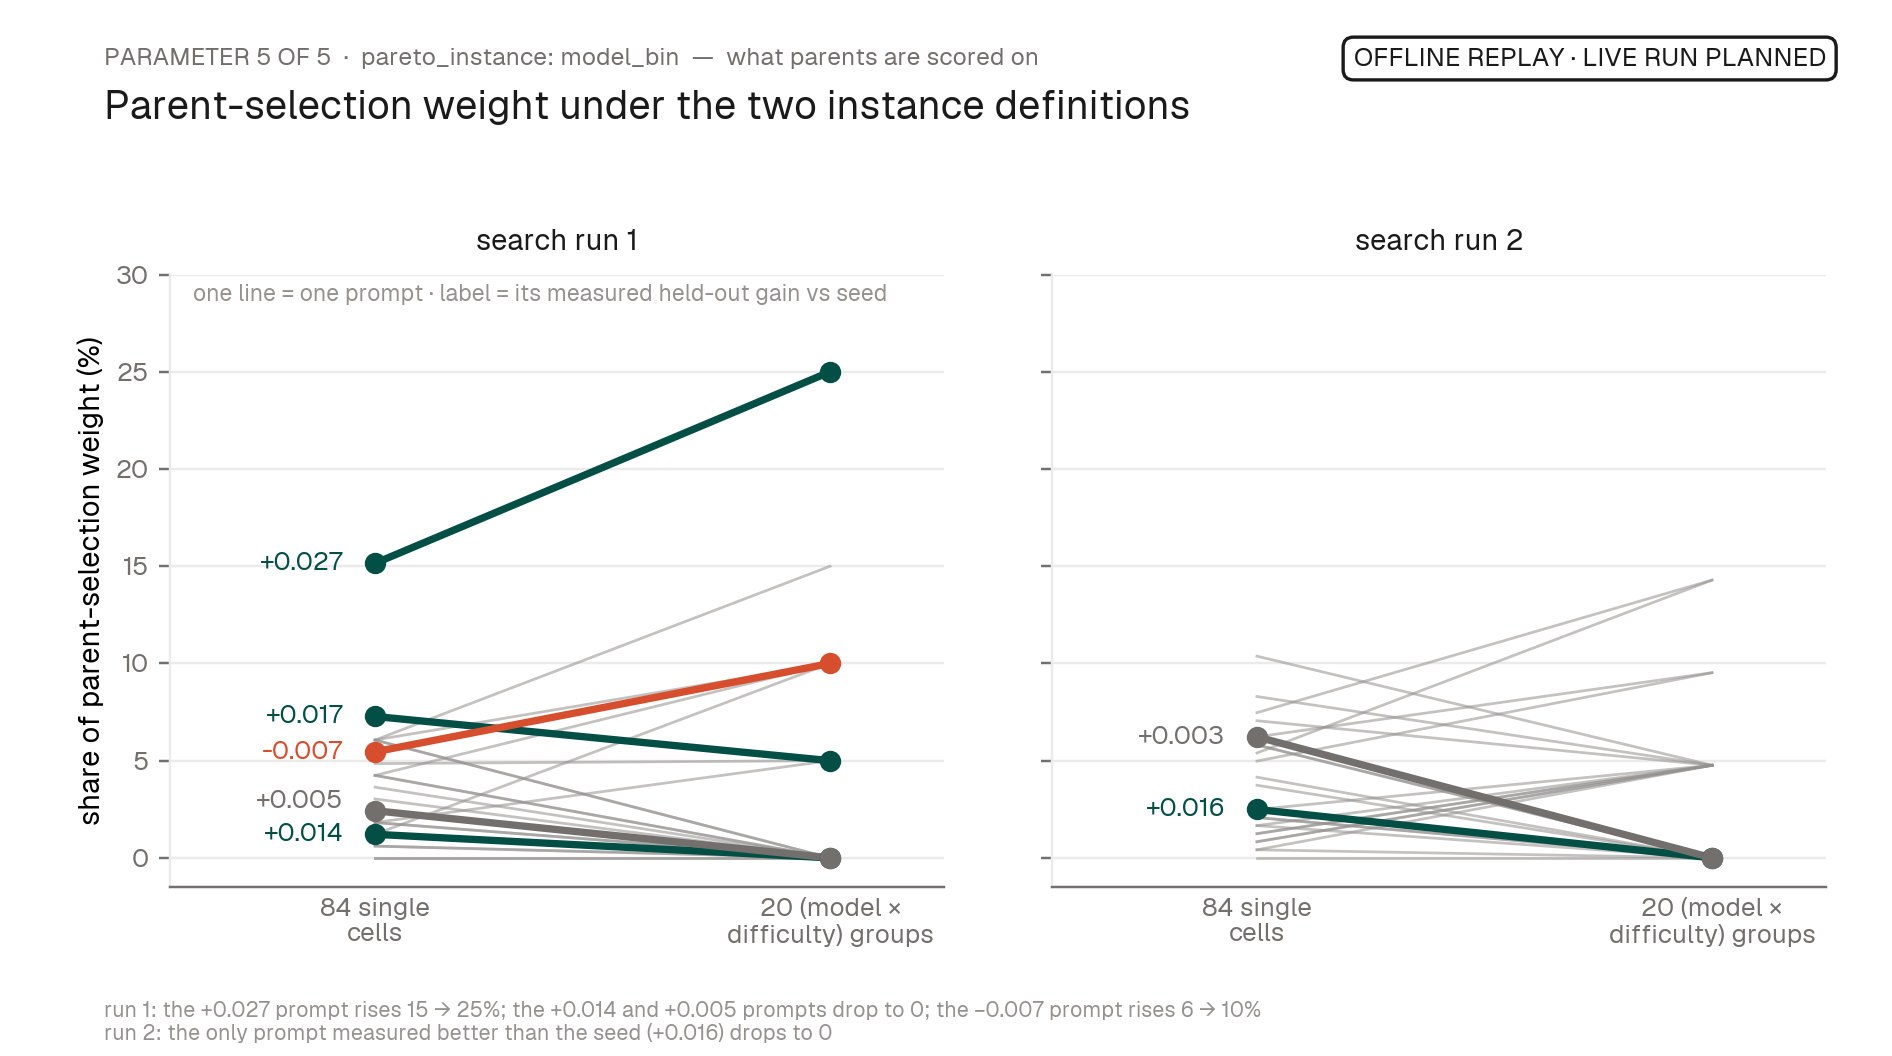
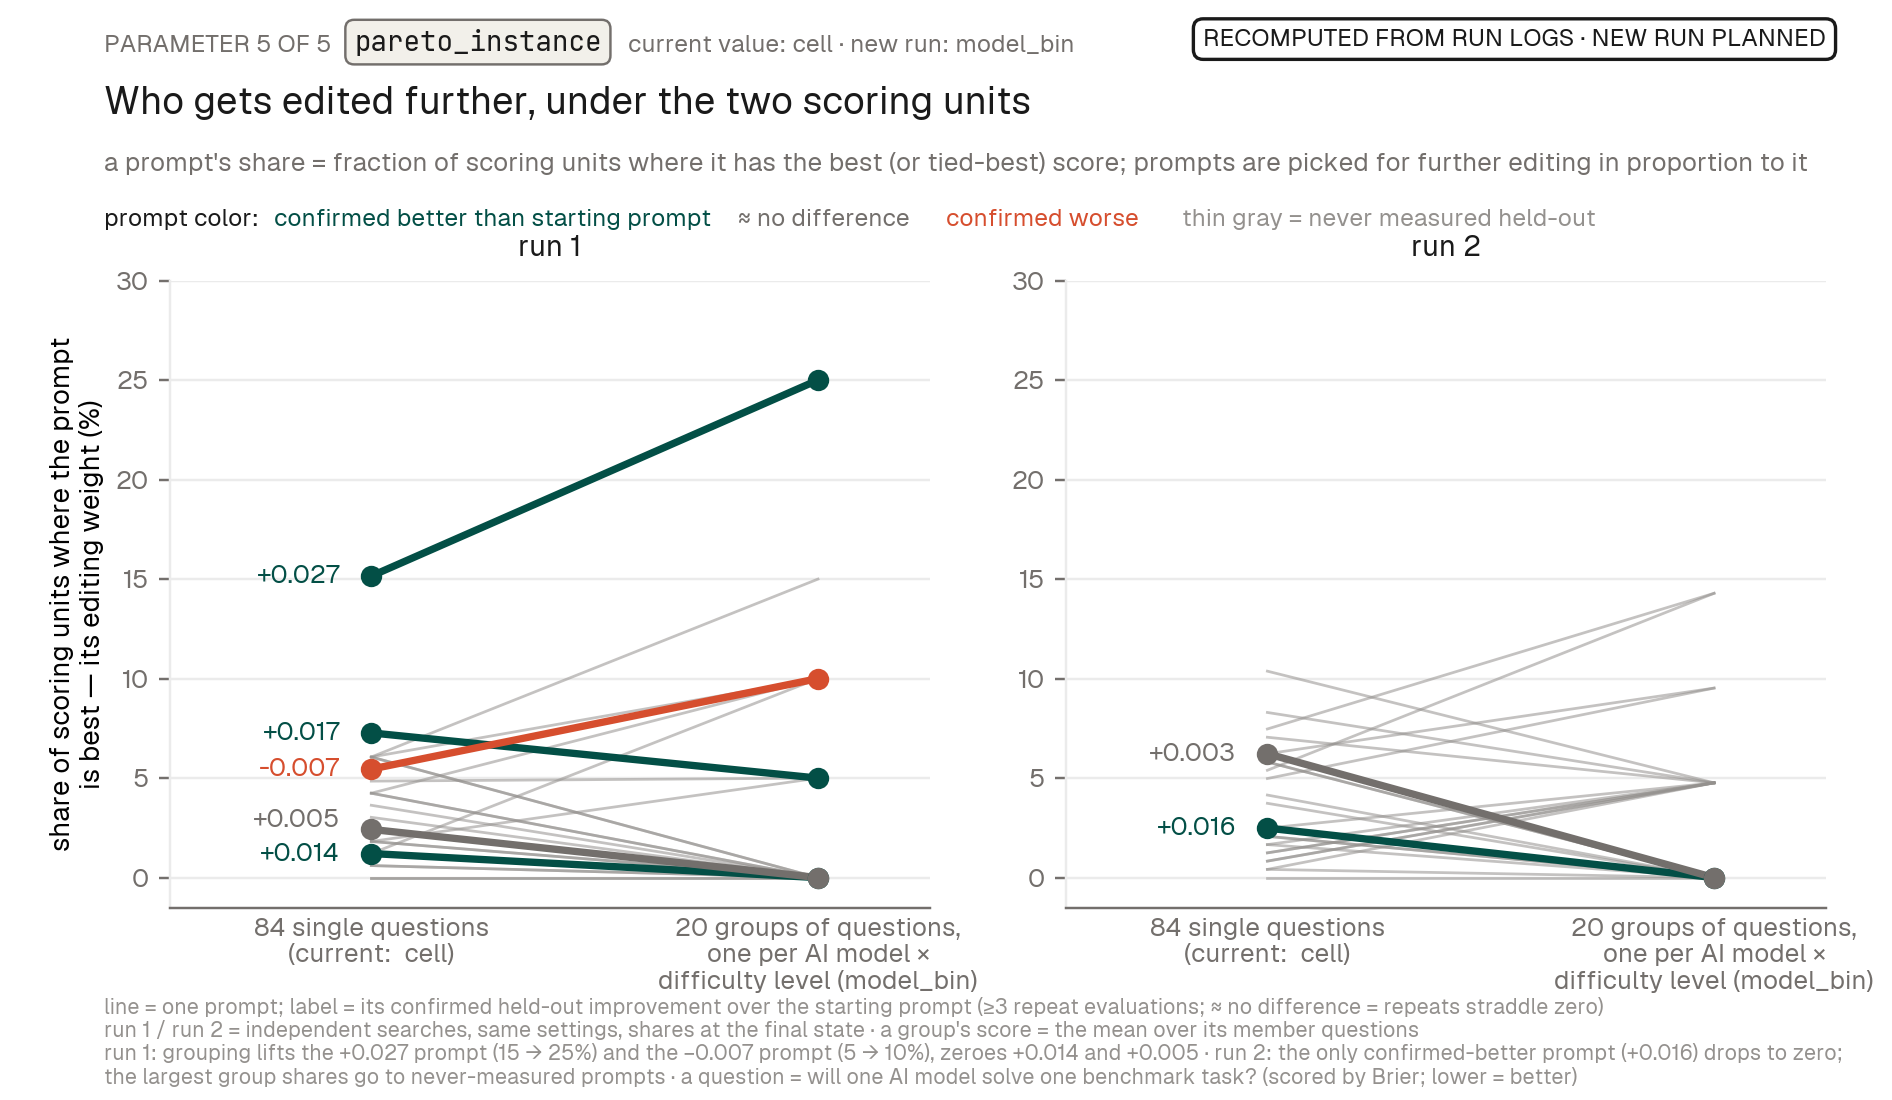
Sweep figures: cold-reader-proofed, parameter names highlighted
Ten zero-context reviewer passes (five before, five after) drove the
rewrite: every term is now defined in the labels themselves (question =
one model x task forecast, starting prompt, parent prompt, win, tie
handling, denominators), the exact code parameter name sits in a
monospace chip in each header, whiskers added from per-repeat paired
gains, fig15 is a true two-axis scatter, and fig16 maps each config
value to its column with a color legend. Final verdicts: all five
self-sufficient for a cold reader.

diff --git a/intra_benchmark_calibration/experiments/III_gepa_optimization/summary/make_param_sweep_figs.py b/intra_benchmark_calibration/experiments/III_gepa_optimization/summary/make_param_sweep_figs.py
@@ -1,9 +1,14 @@
 #!/usr/bin/env python3
 """fig12-16: one figure per search parameter considered for the next runs.
 
-Each figure names the exact parameter, states offline/online in the corner
-chip, and reads from sweep_report_data.json (produced by gepa repo
-scripts/sweep_report_data.py — a replay of the logged runs, no simulation).
+Wording is calibrated against five zero-context reviewer passes (agents shown
+only the image): every term is defined on-figure in the labels themselves —
+question, starting prompt, parent prompt, win, tie handling, denominators —
+and each figure states in the corner chip whether it is recomputed from the
+logs of completed runs or comes from completed runs directly.
+
+Data: sweep_report_data.json (gepa repo scripts/sweep_report_data.py — a
+replay of recorded runs, no simulation).
 """
 import json
 from pathlib import Path
@@ -20,13 +25,26 @@ plt.rcParams.update({"font.family": "Geist", "figure.facecolor": "white",
 D = json.load(open(Path(__file__).parent / "sweep_report_data.json"))
 R1, R2 = "pilot_baseline", "pilot_baseline_clean"
 
+QUESTION = "a question = will one AI model solve one benchmark task? (scored by Brier; lower = better)"
 
-def header(fig, n, code, title, chip):
-    fig.text(0.055, 0.955, f"PARAMETER {n} OF 5  ·  {code}",
-             fontsize=8, color=MUTED, ha="left", va="top")
-    fig.text(0.055, 0.915, title, fontsize=13, color=INK, ha="left", va="top",
+
+def header(fig, n, code, title, frame, chip, gloss=""):
+    # the exact code parameter name, highlighted in a monospace chip
+    t1 = fig.text(0.055, 0.968, f"PARAMETER {n} OF 5", fontsize=8, color=MUTED,
+                  ha="left", va="top")
+    renderer = fig.canvas.get_renderer()
+    x = t1.get_window_extent(renderer).x1 / (fig.get_figwidth() * fig.dpi) + 0.012
+    t2 = fig.text(x, 0.974, code, fontsize=9, color=INK, ha="left", va="top",
+                  fontweight="bold",
+                  fontfamily=["JetBrains Mono", "Menlo", "monospace"],
+                  bbox=dict(boxstyle="round,pad=0.32", fc="#f2f0ea", ec=MUTED, lw=0.8))
+    if gloss:
+        x2 = t2.get_window_extent(renderer).x1 / (fig.get_figwidth() * fig.dpi) + 0.014
+        fig.text(x2, 0.968, gloss, fontsize=8, color=MUTED, ha="left", va="top")
+    fig.text(0.055, 0.922, title, fontsize=12.5, color=INK, ha="left", va="top",
              fontweight="bold")
-    fig.text(0.965, 0.955, chip, fontsize=8.5, color=INK, ha="right",
+    fig.text(0.055, 0.862, frame, fontsize=8.5, color=MUTED, ha="left", va="top")
+    fig.text(0.965, 0.974, chip, fontsize=8, color=INK, ha="right",
              va="top", fontweight="bold",
              bbox=dict(boxstyle="round,pad=0.4", fc="white", ec=INK, lw=1.1))
 
@@ -44,139 +62,179 @@ def clean_axes(ax):
 
 # ---------------------------------------------------------------- fig12
 def fig12():
-    fig, ax = plt.subplots(figsize=(8.6, 4.0), dpi=220)
-    fig.subplots_adjust(top=0.76, bottom=0.20, left=0.10, right=0.965)
-    header(fig, 1, "n_train_tasks_per_iter  —  number of cells in the accept/reject test",
-           "Best verified held-out gain, by size of the accept/reject test",
-           "COMPLETED LIVE RUNS")
-    runs = D["gate_size"]["runs"]
-    xs = range(3)
-    for x, r in zip(xs, runs):
-        if r["best_gain"] is not None:
-            ax.bar(x, r["best_gain"], width=0.52, color=GREEN)
-            ax.text(x, r["best_gain"] + 0.0008, f"+{r['best_gain']:.3f}",
-                    ha="center", fontsize=11, color=INK, fontweight="bold")
-            ax.text(x, r["best_gain"] + 0.0032, r["passes"],
+    fig, ax = plt.subplots(figsize=(8.6, 4.4), dpi=220)
+    fig.subplots_adjust(top=0.775, bottom=0.21, left=0.115, right=0.965)
+    header(fig, 1, "n_train_tasks_per_iter",
+           "Best confirmed improvement, by size of the entry test",
+           "a proposed prompt joins the pool only if it beats its parent prompt "
+           "(the prompt it was edited from) on this test",
+           "FROM COMPLETED RUNS",
+           gloss="value 1 → a 20-question test · value 5 → 100")
+    G = D["gate_size"]
+    for x, r in enumerate(G["runs"]):
+        b = r["best"]
+        if b is not None:
+            ax.bar(x, b["mean"], width=0.5, color=GREEN,
+                   yerr=[[b["mean"] - b["min"]], [b["max"] - b["mean"]]],
+                   capsize=4, error_kw={"lw": 1.1, "ecolor": INK})
+            ax.text(x, b["mean"] - 0.0018, f"+{b['mean']:.3f}",
+                    ha="center", va="top", fontsize=11, color="white",
+                    fontweight="bold")
+            ax.text(x, b["max"] + 0.0012, f"{b['n_repeats']} repeat evaluations",
                     ha="center", fontsize=7.5, color=SOFT)
         else:
-            ax.bar(x, 0.0004, width=0.52, color=HAIR, edgecolor=MUTED,
+            ax.bar(x, 0.0004, width=0.5, color=HAIR, edgecolor=MUTED,
                    lw=1.0, ls="--")
-            ax.text(x, 0.0022, "no prompt beat the seed;\nnothing to verify held-out",
-                    ha="center", fontsize=9, color=MUTED)
-    ax.set_xticks(list(xs), ["20-cell test\nsearch run 1", "20-cell test\nsearch run 2",
-                             "100-cell test\none run"],
-                  fontsize=9.5, color=INK)
-    ax.set_ylim(0, 0.032)
-    ax.set_ylabel("best verified held-out gain vs seed\n(Brier, higher = better)",
+            ax.text(x, 0.0035, "none of its 40 proposals beat the starting\nprompt even "
+                    "on the search questions —\nnothing to evaluate held-out",
+                    ha="center", fontsize=8.5, color=MUTED)
+    ax.set_xticks([0, 1, 2], ["20-question test\nrun 1", "20-question test\nrun 2",
+                              "100-question test\nrun 3"], fontsize=9.5, color=INK)
+    ax.set_ylim(0, 0.034)
+    ax.set_ylabel("improvement in held-out Brier score\nover the starting prompt",
                   fontsize=9)
     clean_axes(ax); ax.tick_params(axis="x", length=0)
-    footer(fig, "gain = paired mean Brier improvement vs the seed on the 230 held-out pairs, "
-                "≥3 paired passes")
+    footer(fig, "improvement = starting prompt's Brier − this prompt's Brier, on the same 230 "
+                "held-out questions never used during the search · bar = mean, whisker = "
+                "min–max\nover repeat evaluations · confirmed = better in every repeat · "
+                "starting prompt's held-out Brier ≈ 0.131 · every run proposes 40 prompts\n"
+                + QUESTION + " · an entry test = (value × 5 difficulty bins) tasks × 4 AI models")
     fig.savefig("fig12_sweep_gate_size.png")
     plt.close(fig)
 
 
 # ---------------------------------------------------------------- fig13/14
+FRAME_1314 = ("today's entry rule: a proposed prompt joins the pool if its total score on 20 "
+              "questions beats its parent prompt's\n(parent = the prompt it was edited from) · "
+              "a win = a better score than the parent on one question")
+
+
 def _accept_lines(ax, table, pooled, reject_label):
     ks = list(range(0, 21))
     g = [100 * table[str(k)]["good_kept"] / pooled["n_good"] for k in ks]
     b = [100 * table[str(k)]["bad_kept"] / pooled["n_bad"] for k in ks]
     a = [100 * table[str(k)]["rejects_admitted"] / pooled["n_reject"] for k in ks]
-    ax.plot(ks, g, color=GREEN, lw=2.2,
-            label=f"accepted — later measured better than parent  (n={pooled['n_good']})")
-    ax.plot(ks, b, color=VERM, lw=2.2,
-            label=f"accepted — later measured worse than parent  (n={pooled['n_bad']})")
-    ax.plot(ks, a, color=INK, lw=1.6, ls=":", label=reject_label)
+    ax.plot(ks, g, color=GREEN, lw=2, marker="o", ms=3.5,
+            label=f"accepted then — later confirmed better than its parent  (n={pooled['n_good']})")
+    ax.plot(ks, b, color=VERM, lw=2, marker="o", ms=3.5,
+            label=f"accepted then — later found worse than its parent  (n={pooled['n_bad']})")
+    ax.plot(ks, a, color=INK, lw=1.4, ls=":", marker="o", ms=3, label=reject_label)
     ax.legend(loc="upper right", frameon=False, fontsize=8.5,
-              handlelength=2.4, labelcolor=INK, borderaxespad=0.2)
-    ax.set_xlim(0, 20); ax.set_ylim(-4, 108)
+              handlelength=2.2, labelcolor=INK, borderaxespad=0.2)
+    ax.set_xlim(-0.3, 20.3); ax.set_ylim(-4, 108)
     ax.set_xticks(range(0, 21, 4))
-    ax.set_xlabel("required cell wins  k  (of the 20 test cells)", fontsize=9.5)
-    ax.set_ylabel("proposals accepted by this rule (%)", fontsize=9.5)
+    ax.set_xlabel("required question wins,  k  (of the 20 entry-test questions)", fontsize=9.5)
+    ax.set_ylabel("share of each group this rule\nwould accept (%)", fontsize=9.5)
 
 
 def fig13():
-    fig, ax = plt.subplots(figsize=(8.6, 4.3), dpi=220)
-    fig.subplots_adjust(top=0.76, bottom=0.145, left=0.09, right=0.965)
-    header(fig, 2, "acceptance_criterion: min_task_wins  —  accept a new prompt "
-                   "if it wins ≥ k of the 20 test cells",
-           "What this rule, on its own, would have accepted at each k",
-           "OFFLINE REPLAY")
+    fig, ax = plt.subplots(figsize=(8.6, 4.8), dpi=220)
+    fig.subplots_adjust(top=0.75, bottom=0.185, left=0.105, right=0.965)
+    header(fig, 2, "acceptance_criterion: min_task_wins",
+           "Entry by “win at least k of the 20 questions” alone, replayed",
+           FRAME_1314, "RECOMPUTED FROM RUN LOGS", gloss="swept: k")
     A = D["acceptance"]
     _accept_lines(ax, A["wins_only"], A["pooled"],
-                  f"originally rejected  (n={A['pooled']['n_reject']})")
+                  f"rejected then  (n={A['pooled']['n_reject']})")
     clean_axes(ax)
-    footer(fig, "replay of the 77 recorded accept/reject decisions from the two completed "
-                "20-cell-test runs")
+    footer(fig, "replays the 77 recorded accept/reject decisions of the two completed searches "
+                "under the alternative rule · better/worse = the prompt's later score on all 84 "
+                "search questions\n(different tasks from the entry tests — no overlap) · "
+                "rejected prompts never got that evaluation, so the dotted line carries no "
+                "better/worse label\n" + QUESTION)
     fig.savefig("fig13_sweep_wins_only_gate.png")
     plt.close(fig)
 
 
 def fig14():
-    fig, ax = plt.subplots(figsize=(8.6, 4.3), dpi=220)
-    fig.subplots_adjust(top=0.76, bottom=0.145, left=0.09, right=0.965)
-    header(fig, 3, "aggregate_sum_and_min_task_wins  —  current rule AND wins ≥ k of 20",
-           "What the combined rule would have accepted at each k",
-           "OFFLINE REPLAY · LIVE RUN PLANNED")
+    fig, ax = plt.subplots(figsize=(8.6, 4.8), dpi=220)
+    fig.subplots_adjust(top=0.75, bottom=0.185, left=0.105, right=0.965)
+    header(fig, 3, "aggregate_sum_and_min_task_wins",
+           "Keeping today's rule AND requiring k question wins, replayed",
+           FRAME_1314, "RECOMPUTED FROM RUN LOGS · NEW RUN PLANNED",
+           gloss="swept: k · new run: k = 8")
     A = D["acceptance"]
     _accept_lines(ax, A["joint"], A["pooled"],
-                  "originally rejected — none accepted, at any k")
-    ax.axvline(8, color=GREEN, lw=1.2, ls="--", ymax=0.88)
-    ax.text(8, 103, "k = 8 · planned live run",
-            fontsize=8.5, color=GREEN, ha="center", fontweight="bold")
+                  f"rejected then (n={A['pooled']['n_reject']}) — none re-accepted; "
+                  "the AND only tightens")
+    ax.axvline(8, color=GREEN, lw=1.2, ls="--", ymax=0.80)
+    ax.text(7.7, 32, "k = 8, chosen for the new run:\nkeeps 15 of 18 better,\n"
+            "22 of 32 worse", fontsize=8.5, color=GREEN, ha="right",
+            fontweight="bold")
     clean_axes(ax)
-    footer(fig, "same replay as parameter 2 · the added condition can only reject more than "
-                "the current rule, never accept more")
+    footer(fig, "replays the 77 recorded accept/reject decisions of the two completed searches "
+                "· better/worse = the prompt's later score on all 84 search questions, not the "
+                "20 entry-test\nquestions ('task' in the parameter name = question) · k = 8 is "
+                "the largest k keeping ≥ 80% of the confirmed-better group · a changed early "
+                "acceptance\nchanges every later proposal, so the full-run effect needs the new "
+                "run · " + QUESTION)
     fig.savefig("fig14_sweep_joint_gate.png")
     plt.close(fig)
 
 
 # ---------------------------------------------------------------- fig15
 def fig15():
-    fig, axes = plt.subplots(2, 1, figsize=(8.6, 4.8), dpi=220, sharex=True)
-    fig.subplots_adjust(top=0.74, bottom=0.22, left=0.055, right=0.965, hspace=0.35)
-    header(fig, 4, "n_cells_won_needed_for_pareto_frontier  —  minimum cells won "
-                   "to be eligible as a parent",
-           "Cells won per prompt vs. its verified held-out gain",
-           "OFFLINE REPLAY")
-    fig.text(0.5, 0.795, "prompts with fewer than k cells won are ineligible as parents "
-             "(current setting: k = 1)", fontsize=8.5, color=MUTED, ha="center")
-    for ax, run, row_label in ((axes[0], R1, "search run 1"), (axes[1], R2, "search run 2")):
+    fig, ax = plt.subplots(figsize=(8.6, 4.9), dpi=220)
+    fig.subplots_adjust(top=0.775, bottom=0.225, left=0.105, right=0.965)
+    header(fig, 4, "n_cells_won_needed_for_pareto_frontier",
+           "Questions won vs confirmed improvement, per measured prompt",
+           "only prompts winning ≥ k questions may be edited further · "
+           "win = best, or tied for best, score on one question among the pool",
+           "RECOMPUTED FROM RUN LOGS",
+           gloss="current: 1 · 'cell' = question")
+    pts = {"o": [], "^": []}
+    for marker, run in (("o", R1), ("^", R2)):
         F = D["frontier"][run]
-        verified = {int(i): d for i, d in F["sealed_candidates"].items()}
-        others = [w for i, w in F["cells_won"].items() if int(i) not in verified and int(i) != 0]
-        ax.plot(others, [0] * len(others), marker="|", ms=13, mew=1.3, lw=0,
+        for i, d in F["sealed_candidates"].items():
+            pts[marker].append((d["cells_won"], d["sealed"]))
+        rug = [w for i, w in F["cells_won"].items()
+               if i not in F["sealed_candidates"] and int(i) != 0]
+        ax.plot(rug, [-0.0135] * len(rug), marker="|", ms=8, mew=1.2, lw=0,
                 color=SOFT, alpha=0.8)
-        for idx, d in sorted(verified.items(), key=lambda kv: kv[1]["cells_won"]):
-            gain = d["sealed"]
-            c = GREEN if gain >= 0.01 else (VERM if gain < 0 else MUTED)
-            ax.plot(d["cells_won"], 0, "o", ms=11, color=c, zorder=3)
-            ax.annotate(f"{gain:+.3f}", (d["cells_won"], 0), xytext=(0, 11),
-                        textcoords="offset points", ha="center", fontsize=9,
-                        color=c, fontweight="bold")
-        ax.set_ylim(-0.6, 1.1); ax.set_yticks([])
-        ax.set_xlim(0, 30)
-        ax.text(29.7, 0.75, row_label, fontsize=9, color=INK, ha="right")
-        ax.spines[["top", "right", "left"]].set_visible(False)
-        ax.spines["bottom"].set_color(MUTED)
-        ax.tick_params(colors=MUTED, labelsize=8.5)
-    axes[1].set_xlabel("cells where the prompt is the current best  (of the 84 search-set cells)",
-                       fontsize=9.5)
-    footer(fig, "dot = prompt measured held-out (label: gain vs seed) · gray tick = never "
-                "measured held-out · at k = 2 both runs are unchanged through iteration "
-                "34 / 28 of 40")
+    for marker, data in pts.items():
+        xs, ys = zip(*data)
+        ax.plot(xs, ys, marker, ms=9, color=INK, lw=0,
+                label={"o": "run 1", "^": "run 2"}[marker])
+    ax.axhline(0, color=MUTED, lw=0.9)
+    ax.text(29.6, 0.0008, "no better than\nstarting prompt", fontsize=7.5,
+            color=SOFT, ha="right", va="bottom")
+    ax.legend(loc="upper left", frameon=False, fontsize=8.5, labelcolor=INK,
+              borderaxespad=0.2)
+    ax.set_xlim(0, 30); ax.set_ylim(-0.016, 0.032)
+    ax.set_xlabel("questions won at the end of the run  (of 84) — a threshold at k removes "
+                  "prompts left of k from parenthood", fontsize=9.5)
+    ax.set_ylabel("confirmed held-out improvement\nover the starting prompt (Brier)",
+                  fontsize=9)
+    clean_axes(ax)
+    footer(fig, "| = prompt never measured held-out (improvement unknown) · the 7 measured "
+                "prompts were the promising-looking ones, not a random sample\n"
+                "ties count for every tied prompt · raising the bar to k = 2 leaves run 1 "
+                "unchanged through iteration 34 of 40, run 2 through 28 of 40; beyond that the "
+                "logs cannot say\n" + QUESTION)
     fig.savefig("fig15_sweep_frontier_bar.png")
     plt.close(fig)
 
 
 # ---------------------------------------------------------------- fig16
 def fig16():
-    fig, axes = plt.subplots(1, 2, figsize=(8.6, 4.8), dpi=220, sharey=True)
-    fig.subplots_adjust(top=0.74, bottom=0.16, left=0.09, right=0.965, wspace=0.14)
-    header(fig, 5, "pareto_instance: model_bin  —  what parents are scored on",
-           "Parent-selection weight under the two instance definitions",
-           "OFFLINE REPLAY · LIVE RUN PLANNED")
-    for ax, run, panel in ((axes[0], R1, "search run 1"), (axes[1], R2, "search run 2")):
+    fig, axes = plt.subplots(1, 2, figsize=(8.6, 5.0), dpi=220, sharey=True)
+    fig.subplots_adjust(top=0.745, bottom=0.175, left=0.09, right=0.965, wspace=0.18)
+    header(fig, 5, "pareto_instance",
+           "Who gets edited further, under the two scoring units",
+           "a prompt's share = fraction of scoring units where it has the best (or "
+           "tied-best) score; prompts are picked for further editing in proportion to it",
+           "RECOMPUTED FROM RUN LOGS · NEW RUN PLANNED",
+           gloss="current value: cell · new run: model_bin")
+    fig.text(0.055, 0.795, "prompt color:", fontsize=8, color=INK)
+    fig.text(0.145, 0.795, "confirmed better than starting prompt", fontsize=8,
+             color=GREEN, fontweight="bold")
+    fig.text(0.39, 0.795, "≈ no difference", fontsize=8, color=MUTED,
+             fontweight="bold")
+    fig.text(0.50, 0.795, "confirmed worse", fontsize=8, color=VERM,
+             fontweight="bold")
+    fig.text(0.625, 0.795, "thin gray = never measured held-out", fontsize=8,
+             color=SOFT)
+    for ax, run, panel in ((axes[0], R1, "run 1"), (axes[1], R2, "run 2")):
         P = D["pareto_instance"][run]
         cw, gw = P["cell_wins"], P["group_wins"]
         tc, tg = sum(cw.values()), sum(gw.values())
@@ -205,16 +263,23 @@ def fig16():
             ax.annotate(t, (0, y0), xytext=(-0.07, y), ha="right", va="center",
                         fontsize=8.5, color=c, fontweight="bold")
         ax.set_xlim(-0.45, 1.25); ax.set_ylim(-1.5, 30)
-        ax.set_xticks([0, 1], ["84 single\ncells", "20 (model ×\ndifficulty) groups"],
-                      fontsize=9, color=INK)
+        ax.set_xticks([0, 1], ["84 single questions\n(current:  cell)",
+                               "20 groups of questions,\none per AI model ×\ndifficulty level "
+                               "(model_bin)"], fontsize=8.5, color=INK)
         ax.set_title(panel, fontsize=9.5, color=INK, pad=8)
-        clean_axes(ax); ax.tick_params(axis="x", length=0)
-    axes[0].set_ylabel("share of parent-selection weight (%)", fontsize=9.5)
-    axes[0].text(0.03, 0.985, "one line = one prompt · label = its measured held-out gain vs seed",
-                 transform=axes[0].transAxes, fontsize=7.5, color=SOFT, va="top")
-    footer(fig, "run 1: the +0.027 prompt rises 15 → 25%; the +0.014 and +0.005 prompts drop "
-                "to 0; the −0.007 prompt rises 6 → 10%\n"
-                "run 2: the only prompt measured better than the seed (+0.016) drops to 0")
+        clean_axes(ax)
+        ax.tick_params(axis="x", length=0, labelsize=8.5)
+        ax.tick_params(axis="y", labelleft=True)
+    axes[0].set_ylabel("share of scoring units where the prompt\nis best — its editing weight (%)",
+                       fontsize=9)
+    footer(fig, "line = one prompt; label = its confirmed held-out improvement over the starting "
+                "prompt (≥3 repeat evaluations; ≈ no difference = repeats straddle zero)\n"
+                "run 1 / run 2 = independent searches, same settings, shares at the final state "
+                "· a group's score = the mean over its member questions\n"
+                "run 1: grouping lifts the +0.027 prompt (15 → 25%) and the −0.007 prompt "
+                "(5 → 10%), zeroes +0.014 and +0.005 · run 2: the only confirmed-better prompt "
+                "(+0.016) drops to zero;\nthe largest group shares go to never-measured prompts · "
+                + QUESTION)
     fig.savefig("fig16_sweep_pareto_instance.png")
     plt.close(fig)
 
